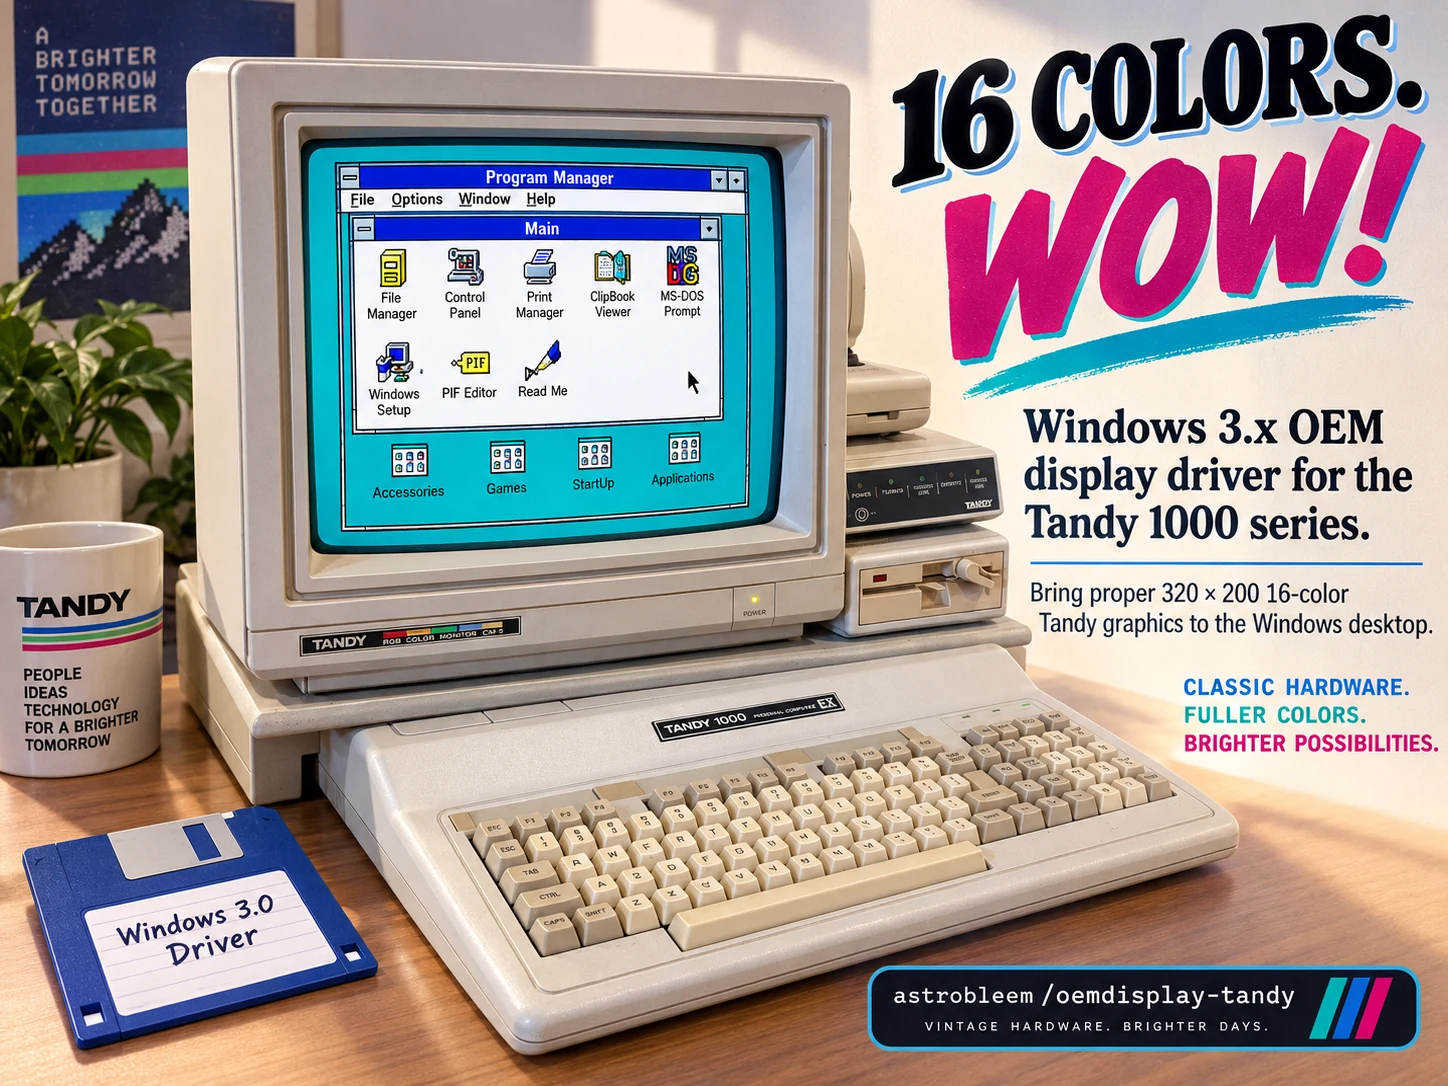
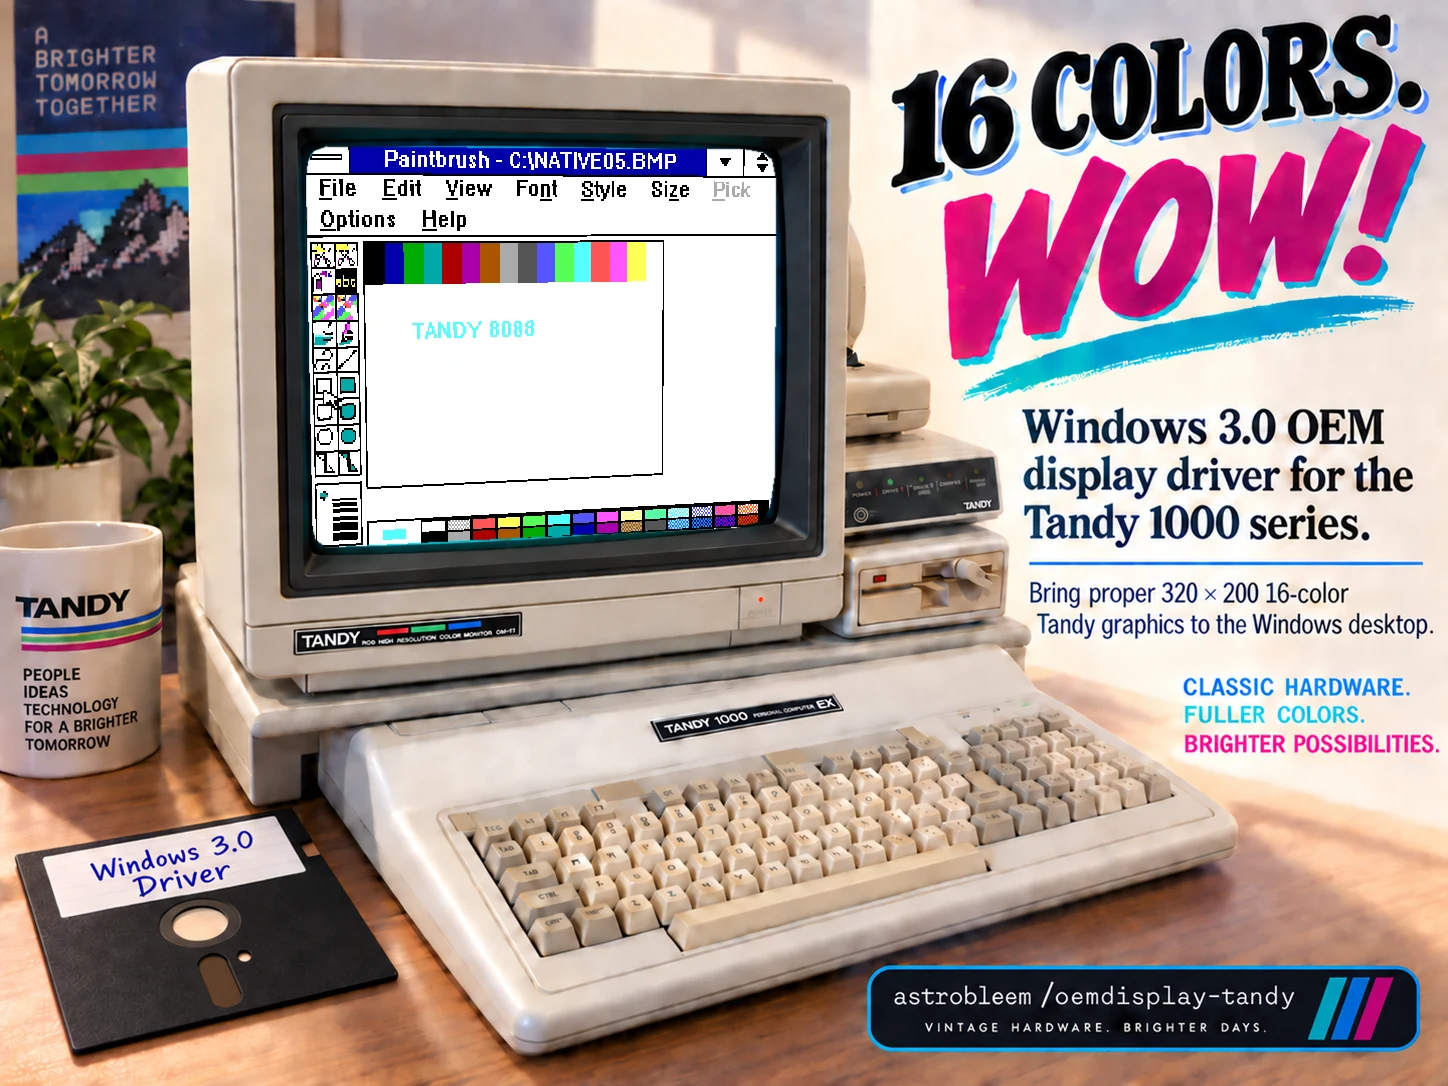
Correct promo badge and use real Windows 3.0 screen with red power LED

diff --git a/docs/PROMO/README.MD b/docs/PROMO/README.MD
@@ -1,24 +1,42 @@
 # Project promotional artwork
 
-These retro-style promotional mockups were supplied for the project README.
-They are illustrative art, not photographs of a tested installation, native
-emulator evidence or official Tandy/Microsoft packaging. The older poster's
-Windows 3.x wording does not expand the documented Windows 3.0 real-mode target.
+These retro-style promotional mockups are illustrative art, not photographs
+of a tested physical installation or official Tandy/Microsoft packaging.
+The WOW poster's monitor uses an authentic native emulator screenshot; its
+surrounding computer scene is artwork. Verified software scope remains
+Windows 3.0 real mode.
 
-The original PNGs remain unchanged. These web copies retain the full original
-dimensions and composition, with no crop, text change or retouching. They were
-encoded as WebP quality 88 with metadata stripped, then visually inspected.
-Combined web payload: 477,496 bytes, versus 4,626,844 original PNG bytes.
+## Corrected 16 COLORS. WOW!
 
-## 16 COLORS. WOW!
+[16WOW.WEBP](16WOW.WEBP), 1448x1086, 221,620 bytes. The recovered final
+artwork retains the three-bar RGB monitor badge, black 5 1/4-inch floppy with
+handwritten label, and Windows 3.0 headline. The monitor power LED is red.
 
-[16WOW.WEBP](16WOW.WEBP), 1448x1086, 287,814 bytes.
-Original PNG SHA256:
[1 lines of base64/hex data omitted]
-Web copy SHA256:
[1 lines of base64/hex data omitted]
+The screen is a deterministic nearest-neighbor perspective composite of the
+[existing native Paintbrush capture](../tandy-dib-roundtrip.png), originally
+320x200. It shows actual Windows 3.0 real-mode rendering and the 16-color
+bitmap roundtrip on the Tandy driver. No UI was regenerated or retyped.
+The CRT edge mask fits the pictured curved glass. This geometry fitting and
+the later WebP encoding resample the displayed image; the linked source
+remains unchanged. See [original test scope](../../src/tandysw/DIB88.MD).
 
-## Windows XT concept box
+Only the screen surface and 32 LED pixels changed from the corrected base.
+The badge, floppy and headline were checked byte-identical before web
+encoding. No new runtime or physical-machine test is claimed by this edit.
+
+- Corrected base PNG SHA256:
[1 lines of base64/hex data omitted]
+- Original native screenshot SHA256:
[1 lines of base64/hex data omitted]
+- Final composite PNG SHA256:
[1 lines of base64/hex data omitted]
+- Current web copy SHA256:
[1 lines of base64/hex data omitted]
+
+The web copy preserves full dimensions/composition, uses WebP quality 88 and
+strips metadata. The original artwork and earlier versions remain preserved.
+
+## Windows XT concept box (unchanged)
 
 [WINXTBOX.WEBP](WINXTBOX.WEBP), 1122x1402, 189,682 bytes.
 Original PNG SHA256:

diff --git a/README.md b/README.md
@@ -13,11 +13,15 @@ or convert a GIF for Paintbrush.
 
 ## Project promotional art
 
-Retro-style project mockups, separate from the actual emulator captures below.
-These are not official Tandy or Microsoft packaging. The older poster says
-"Windows 3.x"; the verified project target remains **Windows 3.0 real mode**.
+Retro-style project mockups, separate from the emulator evidence below.
+These are not official Tandy or Microsoft packaging. The poster uses the
+corrected three-bar monitor badge, black 5 1/4-inch floppy and Windows 3.0 text.
 
-![16 COLORS. WOW! promotional artwork with a Tandy 1000 EX and blue Windows 3.0 Driver floppy](docs/PROMO/16WOW.WEBP)
+![16 COLORS. WOW! promotional composite with a Tandy 1000 EX, real Paintbrush screenshot, red power LED and black Windows 3.0 Driver floppy](docs/PROMO/16WOW.WEBP)
+
+The monitor contains the [actual native Windows 3.0 Paintbrush capture](docs/tandy-dib-roundtrip.png),
+perspective-fitted from its original pixels rather than a simulated UI.
+The surrounding computer scene remains promotional artwork.
 
 <a href="docs/PROMO/WINXTBOX.WEBP"><img src="docs/PROMO/WINXTBOX.WEBP" alt="Windows XT concept box art for the Tandy Windows 3.0 TShell and Extensions Plus Pack" width="420"></a>
 
@@ -223,4 +227,5 @@ Use Setup for mode changes rather than manual SYSTEM.INI edits.
 Contributions and hardware testing are welcome. Include app/driver versions,
 machine, DOS/Windows versions and reproducible steps, distinguishing hardware
 from emulator results. Preserve existing third-party notices.
+
 
